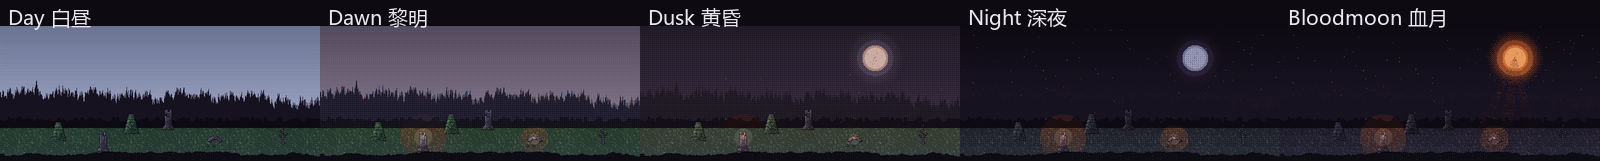
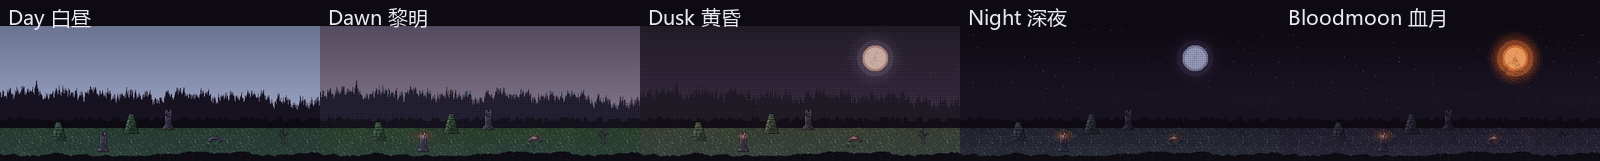
fix(light): 光池重做（芯+晕双源、地面透视椭圆、实心暖芯抖动边缘）+ 粒子精简（30→10 集中火把）+ 光束减弱；文档同步

Changed region(s): [[0.0, 0.7764, 1.0, 0.9938], [0.3125, 0.7764, 0.3438, 0.9006], [0.4375, 0.8696, 0.4688, 0.9006]]

diff --git a/references/workflow.md b/references/workflow.md
@@ -89,7 +89,7 @@ python scripts/forge.py scene scenes/<场景>.lua --out <目录> --size 320x135 
 | `ground` | tile 平铺（可多 variant） | tiles={...}/y |
 | `sprite` | 放入素材（底部中心锚） | folder/name/x/y |
 | `grade` | 时段调色（ramp→ramp 抖动交叉） | preset |
-| `light` | 火把光池 + 火焰 + 暖色 | x/y/r/strength/flicker/warm/flame |
+| `light` | 火把光池（芯+晕双源、地面椭圆）+ 火焰 + 暖色池 | x/y/r/core_r/strength/squash/warm_r/flame |
 | `fog` | 大气雾（深度梯度） | ramp/y0/strength |
 | `rays` | 光束（可 ember 色光柱） | x/y/angle/spread/count/strength |
 | `embers` | 余烬/萤火粒子 | count/范围 |
@@ -98,6 +98,9 @@ python scripts/forge.py scene scenes/<场景>.lua --out <目录> --size 320x135 
 - **时段系统**：`times = { day = { sky_ramp=, sky_from=, sky_to=, hide={...}, moon_corrupt=, grade=, fog_strength= }, ... }`；
 - **调色预设**：`grades = { bloodmoon = { ["foliage_dark"] = { target="shadow", blend=0.8 }, ... } }`
   （blend 为抖动量，0–1；色板安全，无混色）；
+- **光源写法要点**：`light` 用“内核+光晕”双源（`core_r` 小半径高亮 + `r` 宽半径柔光），
+  `squash>1` 把光池压成地面透视椭圆；暖色由 `warmPool` 单独完成（中心近实心、边缘抖动），
+  不要把整片区域均匀抖向暖色（会产生“闪粉”噪感）。粒子（`embers`）宁少勿多：集中在地面光源附近（每处 3–6 颗）。
 - 所有效果须保持色板合规（forge scene 自动逐帧检查，违规即报错）。
 
 ## 8. 沉淀新配方（让库长大）
